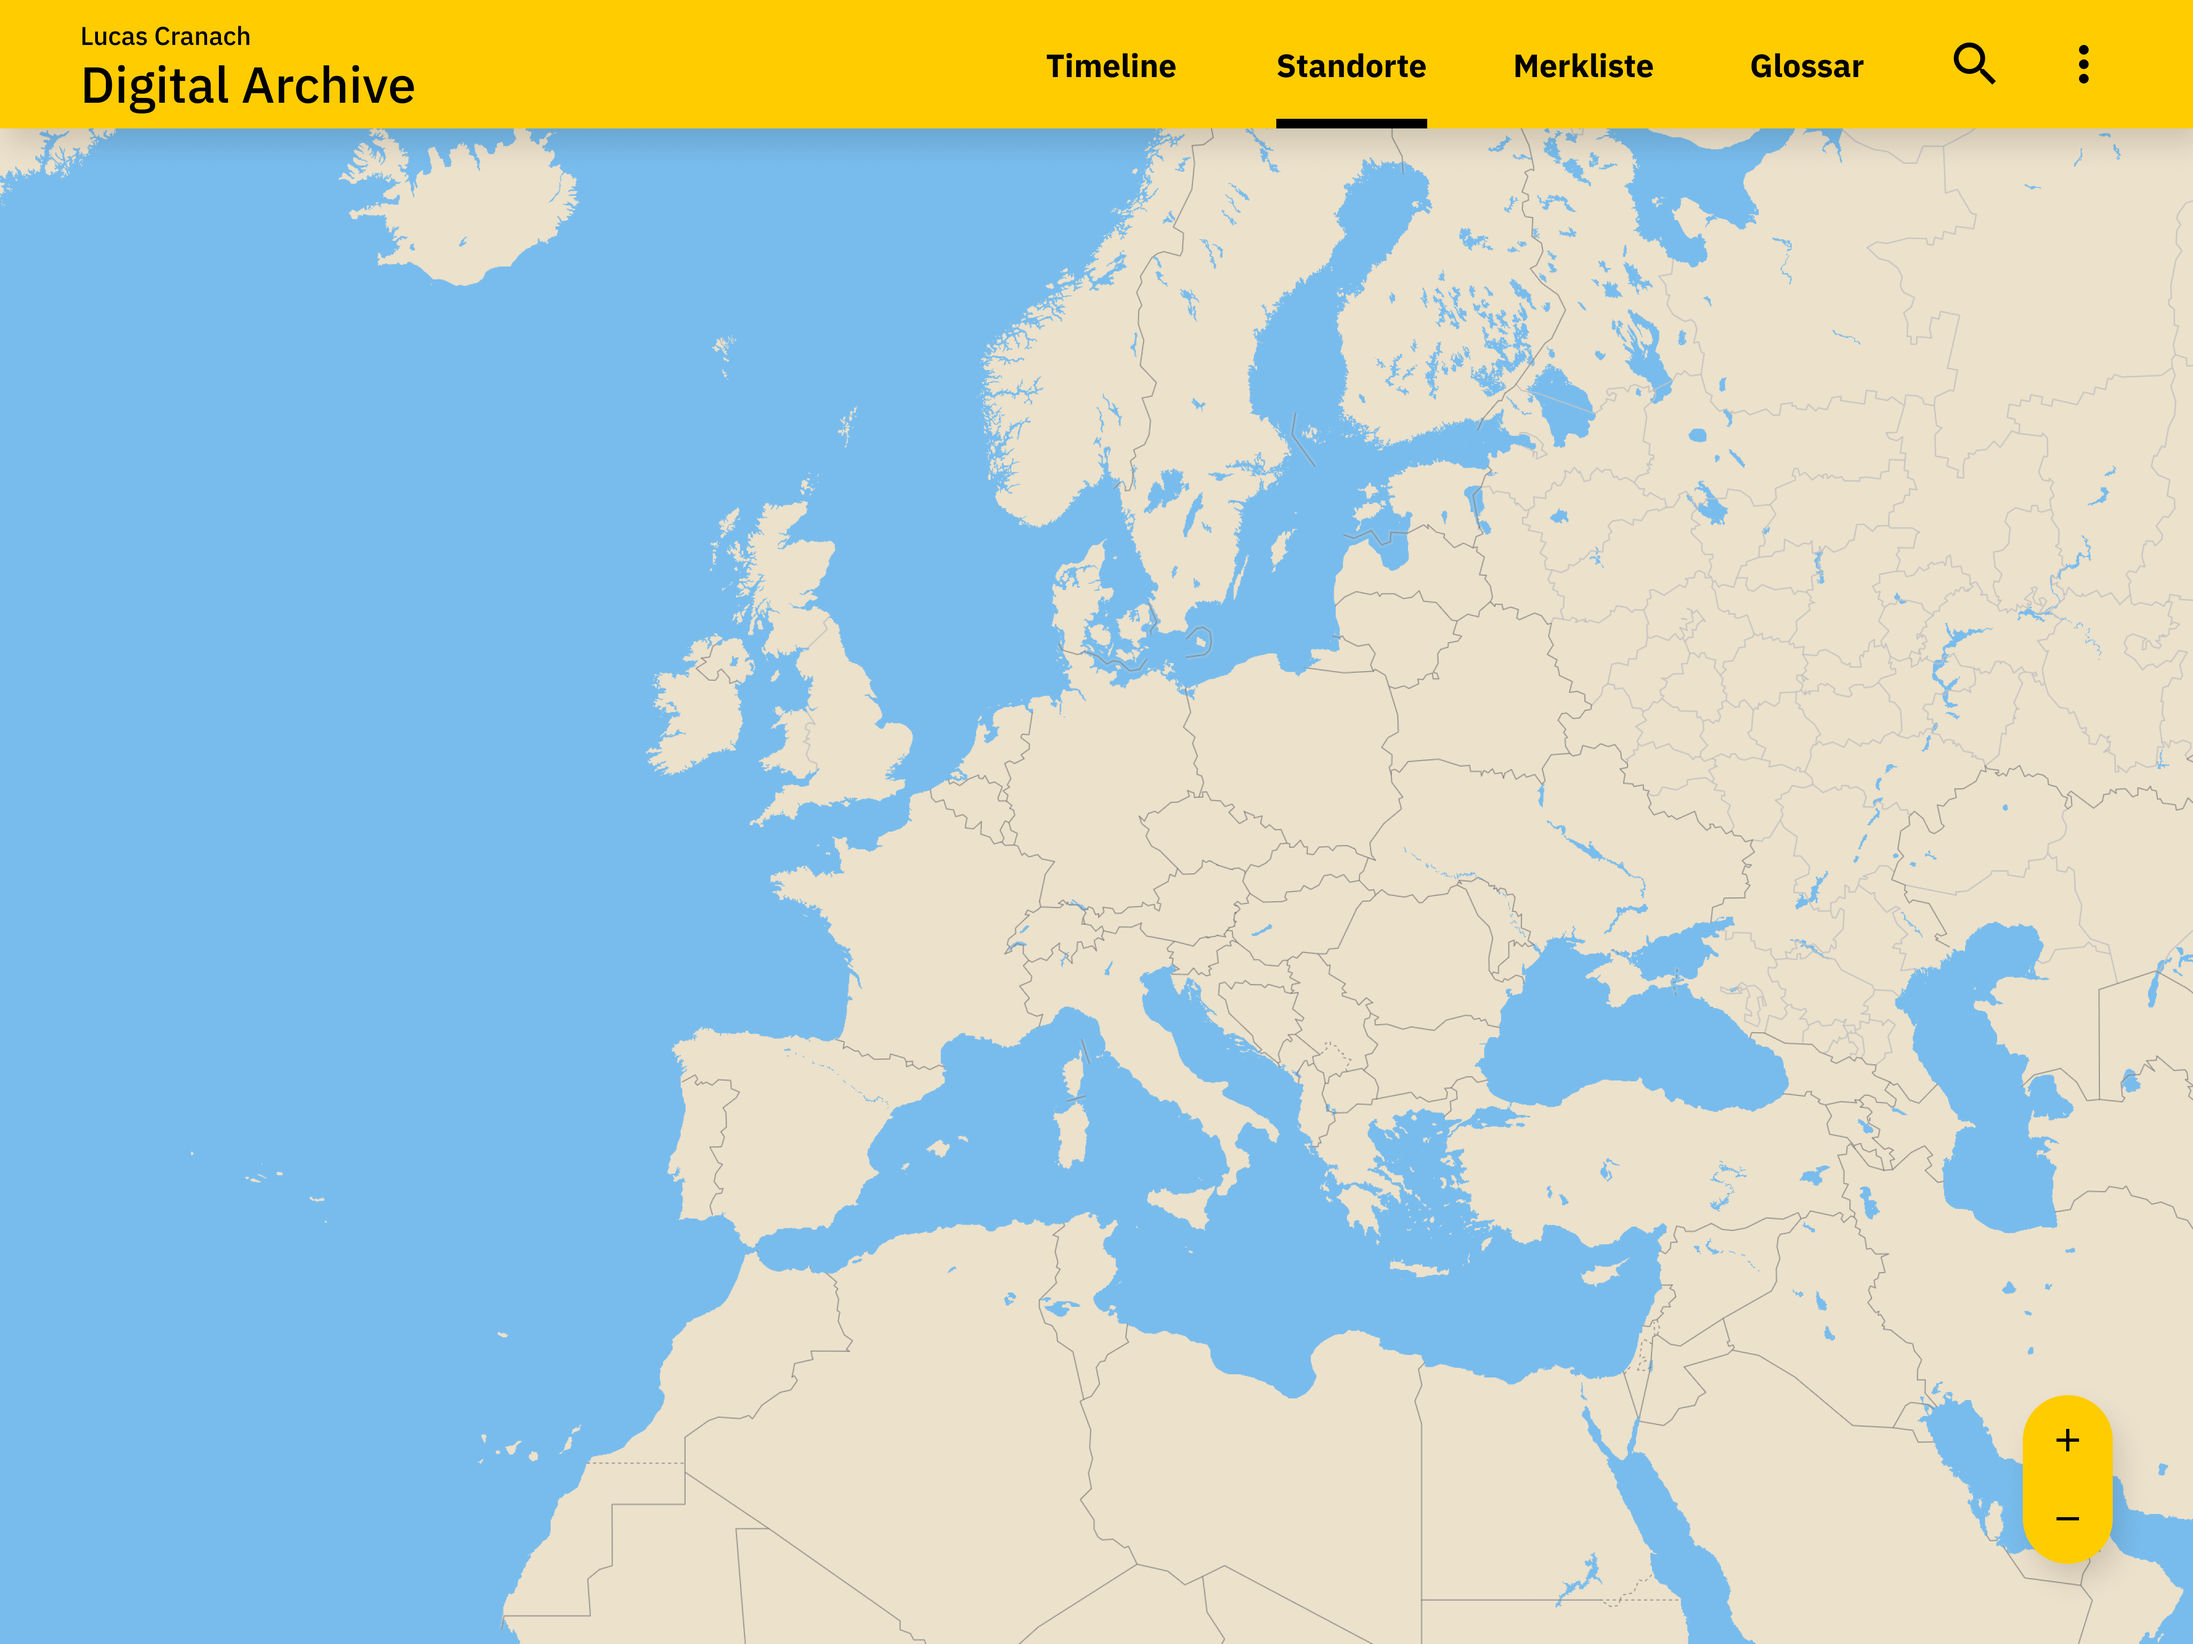
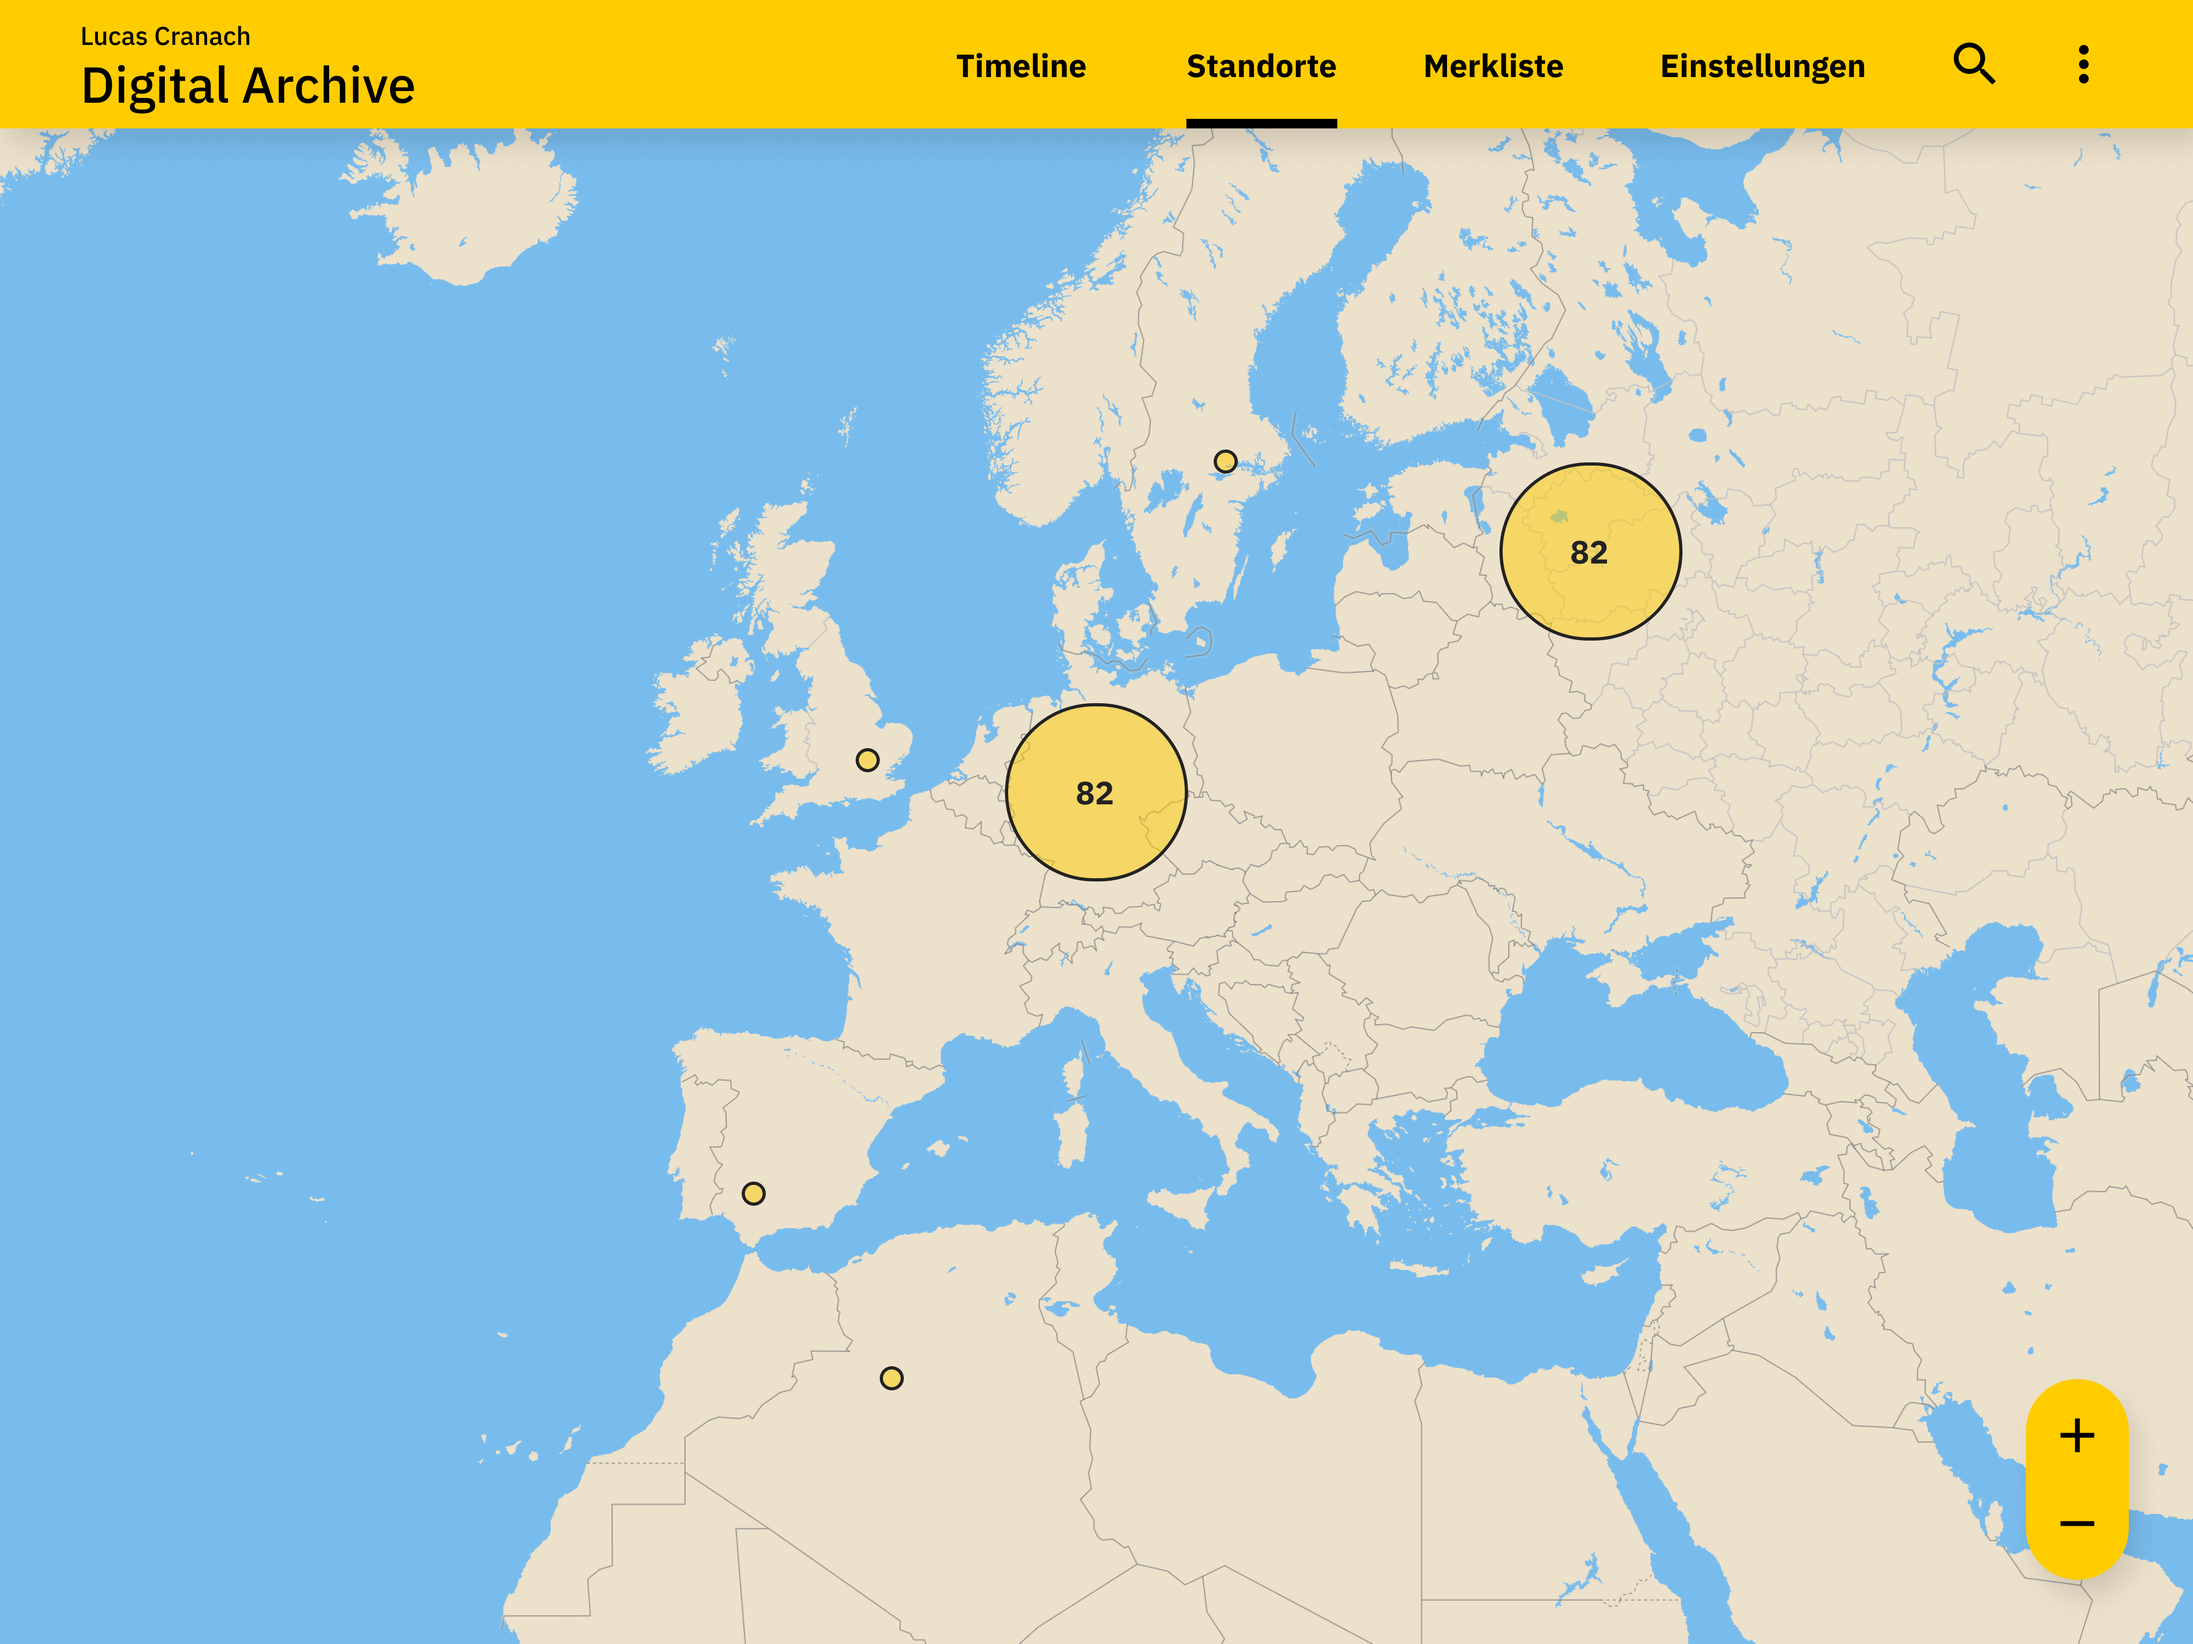
update Karte

diff --git a/index.html b/index.html
@@ -454,7 +454,7 @@ https://twitter.com/cnoss
 
                 <figcaption>
                     <p>
-                     Die einzelnen Bilder werden auf der karte durch einen Punkt repräsentiert. Tippt der Nutzer auf einen Punkt, öffnet sich die jeweilige Detailansicht.
+                     Die einzelnen Bilder werden auf der Karte durch einen Punkt repräsentiert. Tippt der Nutzer auf einen Punkt, öffnet sich die jeweilige Detailansicht.
                      Befinden sich mehrere Punkte nah beieinander, werden diese zu einem größeren Punkt zusammengefasst.
                      Innerhalb des Punktes wird durch eine Zahl gekennzeichnet, wieviele Bilder durch den Punkt repräsentiert werden.
                      Das Zusammenfassen von Punkten schafft nicht nur Übersichtlichkeit, sondern lässt den Nutzer auch direkt erkennen, an welchen Orten sich wieviele Bilder befinden.
@@ -472,7 +472,7 @@ https://twitter.com/cnoss
                 </figcaption>
 
                 <figcaption>
-                    <img class="m-portfolioItem-image" src="/mi-sd-cranachproject/assets/img/tablet/cda_standorte.png">
+                    <img class="m-portfolioItem-image" src="/mi-sd-cranachproject/assets/img/tablet/cda_standorte_single.png">
                 </figcaption>
 
             </figure>
